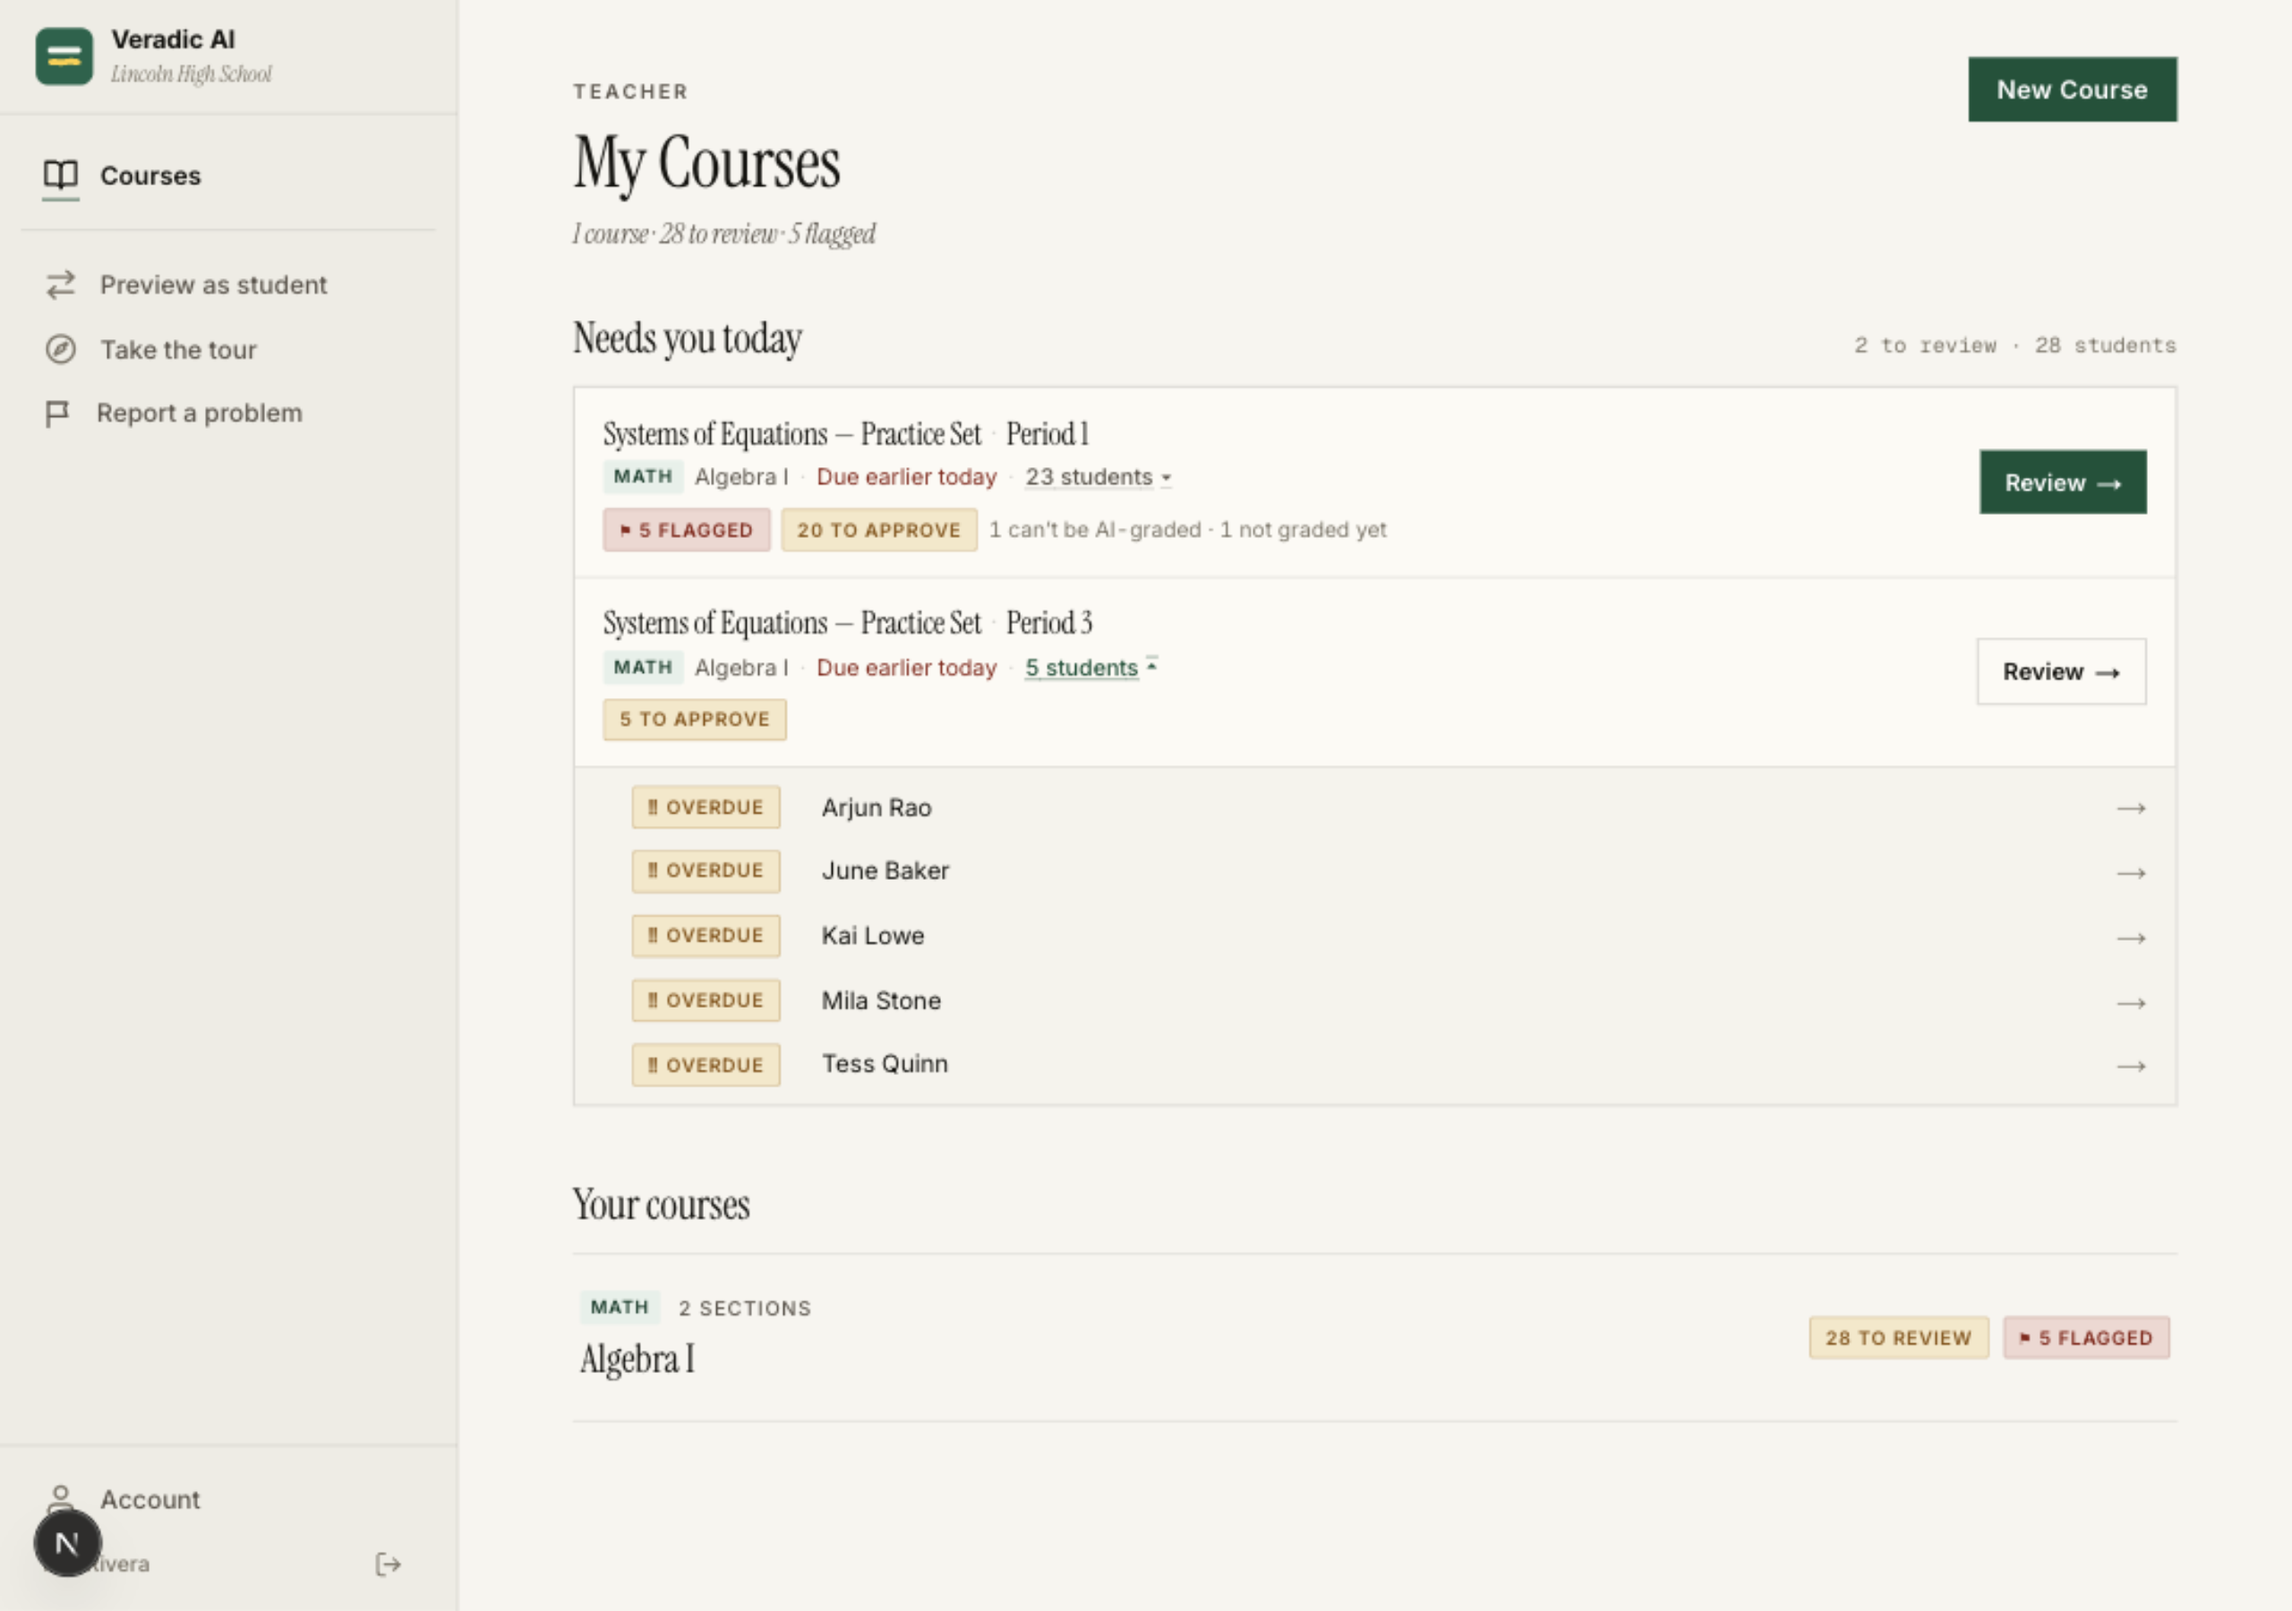
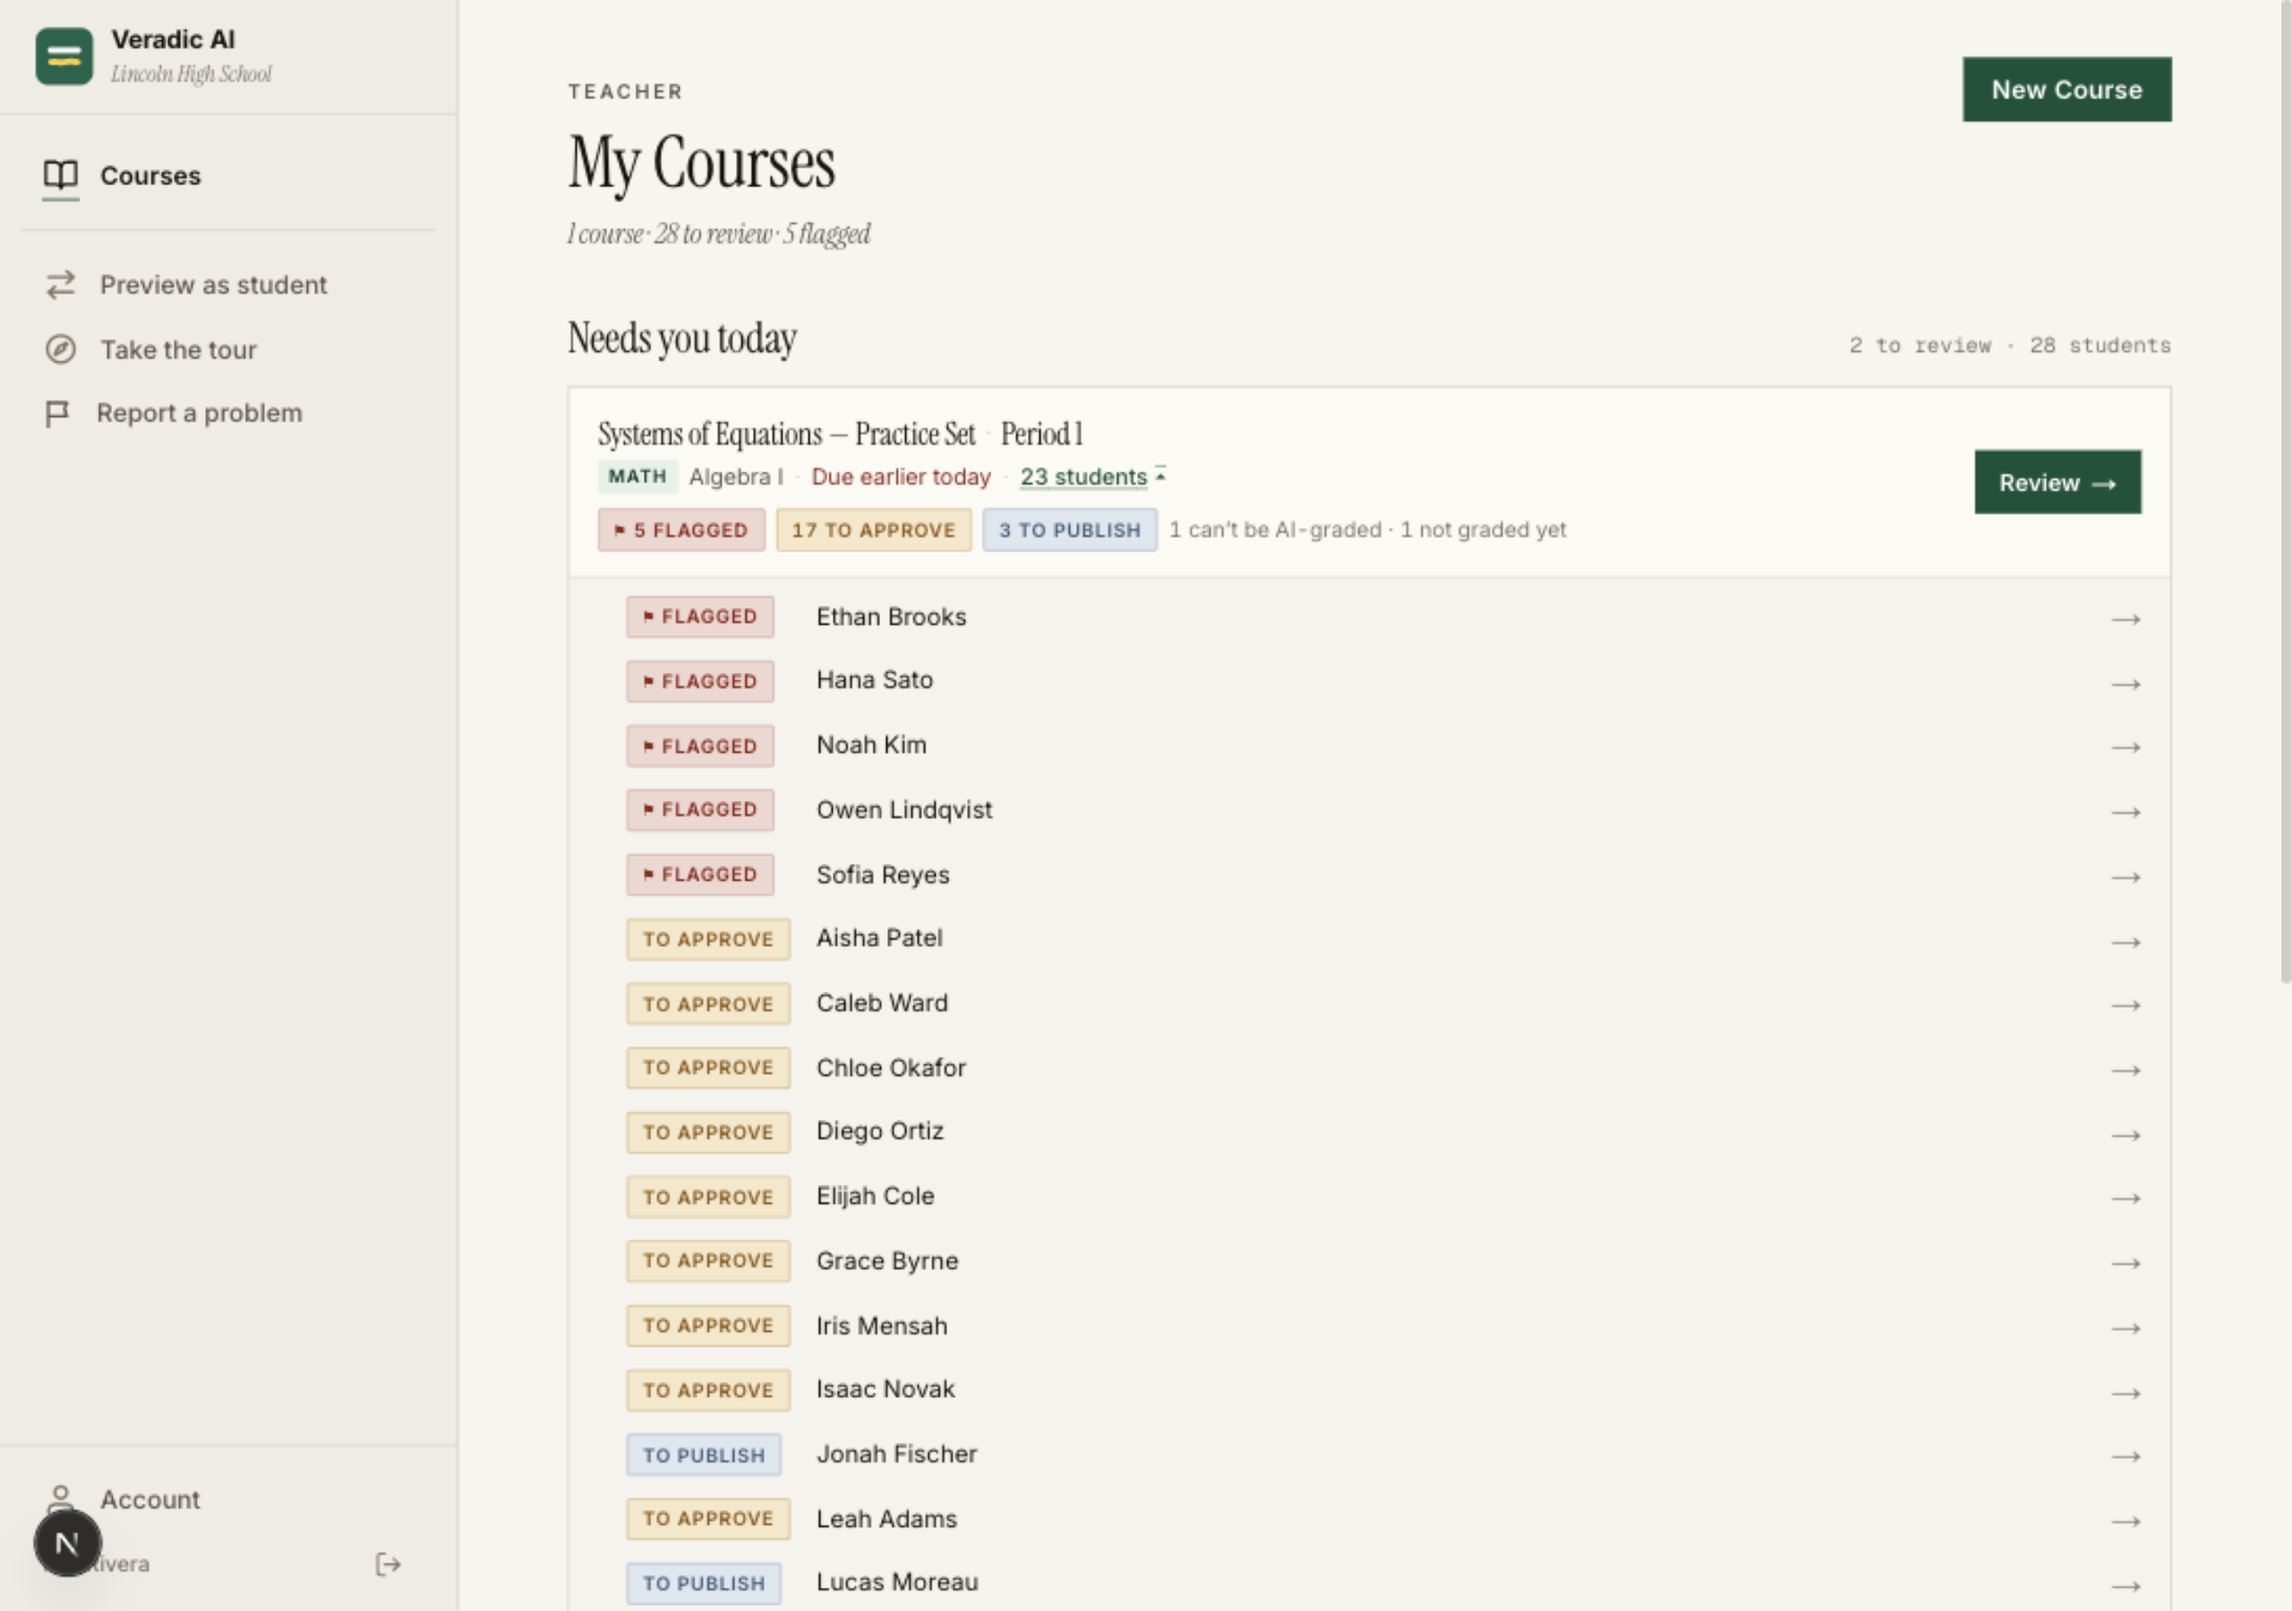
fix(home): student chips match the row's counts; load readings only for ungraded work
An expanded row listed a to-publish student as Ungraded (the server's
reason chip predates the to-approve/to-publish split); the chip now
reads the same flags the counts sum. The query no longer loads every
pending submission's full reading: any grade already answers 'can AI
grade?', so only never-graded rows go through ai_grade_block.

diff --git a/web/src/components/school/teacher/_pieces/needs-you-queue.tsx b/web/src/components/school/teacher/_pieces/needs-you-queue.tsx
@@ -3,16 +3,18 @@
 import { useCallback, useEffect, useId, useMemo, useRef, useState } from "react";
 import Link from "next/link";
 import { AnimatePresence, motion, useReducedMotion } from "framer-motion";
-import { teacher, type NeedsAttentionItem, type NeedsAttentionReason } from "@/lib/api";
+import { teacher, type NeedsAttentionItem } from "@/lib/api";
 import { Skeleton } from "@/components/ui";
 import { StatusPill } from "./status-pill";
 import { SubjectChip } from "./subject-chip";
 import {
   groupNeedsYou,
   groupReviewHref,
+  studentChip,
   studentCount,
   studentReviewHref,
   type NeedsYouGroup,
+  type StudentChip,
 } from "./needs-you-groups";
 
 // How many homework × section rows show before the "Show N more"
@@ -24,14 +26,17 @@ const INITIAL_VISIBLE = 5;
 // Reason → chip. Mirrors the dashboard's StatusPill vocabulary so the
 // queue reads the same as the per-course pills: red = integrity, amber
 // = grading work, info = a published grade the teacher edited since.
-const REASON_CHIP: Record<
-  NeedsAttentionReason,
-  { tone: "red" | "amber" | "info"; label: string; icon?: string }
+const CHIP: Record<
+  StudentChip,
+  { tone: "red" | "amber" | "info" | "muted"; label: string; icon?: string }
 > = {
   flagged: { tone: "red", label: "Flagged", icon: "⚑" },
+  to_approve: { tone: "amber", label: "To approve" },
+  to_publish: { tone: "info", label: "To publish" },
+  republish: { tone: "info", label: "Republish", icon: "↻" },
+  cant_ai_grade: { tone: "muted", label: "Can’t AI-grade" },
   overdue: { tone: "amber", label: "Overdue", icon: "‼" },
-  ungraded: { tone: "amber", label: "Ungraded" },
-  dirty: { tone: "info", label: "Republish", icon: "↻" },
+  ungraded: { tone: "muted", label: "Not graded" },
 };
 
 /** A due-date hint that's honest about overdue work. `formatDueRelative`
@@ -307,7 +312,7 @@ function GroupRow({ group, first }: { group: NeedsYouGroup; first: boolean }) {
 }
 
 function StudentRow({ item }: { item: NeedsAttentionItem }) {
-  const chip = REASON_CHIP[item.reason];
+  const chip = CHIP[studentChip(item)];
   return (
     <Link
       href={studentReviewHref(item)}

diff --git a/web/src/components/school/teacher/_pieces/needs-you-groups.test.ts b/web/src/components/school/teacher/_pieces/needs-you-groups.test.ts
@@ -4,7 +4,7 @@
 import assert from "node:assert/strict";
 import { test } from "node:test";
 import type { NeedsAttentionItem } from "@/lib/api";
-import { groupNeedsYou, groupReviewHref, studentCount } from "./needs-you-groups.ts";
+import { groupNeedsYou, groupReviewHref, studentChip, studentCount } from "./needs-you-groups.ts";
 
 function item(o: Partial<NeedsAttentionItem>): NeedsAttentionItem {
   return {
@@ -88,4 +88,16 @@ test("students are counted once across homeworks", () => {
     ]),
     2,
   );
+});
+
+test("a student's chip agrees with the row's counts", () => {
+  // The server's `reason` says "ungraded" for anything unreleased; the
+  // chip reads the same flags the counts do.
+  assert.equal(studentChip(item({ reason: "ungraded", to_publish: true })), "to_publish");
+  assert.equal(studentChip(item({ reason: "overdue", to_approve: true })), "to_approve");
+  assert.equal(studentChip(item({ reason: "flagged", flagged: true, to_approve: true })), "flagged");
+  assert.equal(studentChip(item({ reason: "dirty", to_publish: true })), "republish");
+  assert.equal(studentChip(item({ reason: "ungraded", cant_ai_grade: true })), "cant_ai_grade");
+  assert.equal(studentChip(item({ reason: "overdue" })), "overdue");
+  assert.equal(studentChip(item({})), "ungraded");
 });

diff --git a/web/src/components/school/teacher/_pieces/needs-you-groups.ts b/web/src/components/school/teacher/_pieces/needs-you-groups.ts
@@ -86,3 +86,17 @@ export function studentReviewHref(item: NeedsAttentionItem): string {
     `?student=${item.student_id}`
   );
 }
+
+export type StudentChip = "flagged" | "republish" | "to_approve" | "to_publish" | "cant_ai_grade" | "overdue" | "ungraded";
+
+/** The one chip a student gets in an expanded row, from the same facts
+ *  the row's counts are summed from — so a "1 to publish" row never
+ *  lists its student as "Ungraded". Flagged first, as on the server. */
+export function studentChip(item: NeedsAttentionItem): StudentChip {
+  if (item.flagged) return "flagged";
+  if (item.reason === "dirty") return "republish";
+  if (item.to_approve) return "to_approve";
+  if (item.to_publish) return "to_publish";
+  if (item.cant_ai_grade) return "cant_ai_grade";
+  return item.reason === "overdue" ? "overdue" : "ungraded";
+}

diff --git a/api/routes/teacher_courses.py b/api/routes/teacher_courses.py
@@ -22,6 +22,7 @@ from api.core.grading_queue import (
     BLOCK_NO_EXTRACTION,
     BLOCK_UNREADABLE,
     ai_grade_block,
+    has_any_grade_clause,
 )
 from api.core.integrity_pipeline import UNFINISHED_REASONS
 from api.core.subjects import VALID_SUBJECTS
@@ -483,28 +484,9 @@ async def needs_attention(
             SubmissionGrade.grade_published_at.label("grade_published_at"),
             overdue_case.label("is_overdue"),
             _to_review_case().label("to_review"),
-            # The ORM rows feed `ai_grade_block` — the review page's own
-            # rule for "can't be AI-graded" — so the two can't drift.
-            # Loaded with only the columns that rule reads (see options
-            # below), so the home page doesn't haul answer keys and
-            # rubric snapshots once per row.
-            Submission,
-            SubmissionGrade,
-            Assignment,
-        )
-        .options(
-            load_only(
-                Submission.id, Submission.extraction, Submission.extraction_flagged_at,
-                Submission.submitted_at, Submission.extraction_confirmed_at,
-            ),
-            load_only(
-                SubmissionGrade.id, SubmissionGrade.final_score, SubmissionGrade.ai_score,
-                SubmissionGrade.ai_breakdown, SubmissionGrade.teacher_score,
-                SubmissionGrade.breakdown, SubmissionGrade.graded_at,
-                SubmissionGrade.reviewed_at, SubmissionGrade.published_final_score,
-                SubmissionGrade.published_breakdown, SubmissionGrade.ai_grading_status,
-            ),
-            load_only(Assignment.id, Assignment.ai_grading_enabled),
+            SubmissionGrade.final_score.label("final_score"),
+            SubmissionGrade.reviewed_at.label("reviewed_at"),
+            has_any_grade_clause().label("has_grade"),
         )
         .select_from(Submission)
         .join(Assignment, Assignment.id == Submission.assignment_id)
@@ -532,6 +514,14 @@ async def needs_attention(
         )
     )).all()
 
+    # "Can't be AI-graded" is the review page's own rule, `ai_grade_block`,
+    # so the two can't drift. It needs the reading, which is heavy — but
+    # any grade at all already answers "no", so only never-graded rows
+    # load it, with just the columns the rule reads.
+    blocked = await _cant_ai_grade_ids(
+        db, [r.submission_id for r in rows if not r.has_grade],
+    )
+
     items: list[dict[str, Any]] = []
     for r in rows:
         # First matching bucket wins — flagged integrity always trumps
@@ -546,11 +536,7 @@ async def needs_attention(
             # Belt-and-suspenders: the WHERE clause already excludes
             # clean-published rows, but never emit one if it slips through.
             continue
-        unreleased = bool(
-            r.to_review
-            and r.SubmissionGrade is not None
-            and r.SubmissionGrade.final_score is not None,
-        )
+        unreleased = bool(r.to_review and r.final_score is not None)
         items.append({
             "submission_id": str(r.submission_id),
             "student_id": str(r.student_id),
@@ -578,11 +564,9 @@ async def needs_attention(
             #   cant_ai_grade — its "N can't be AI-graded" note
             #                   (`ai_grade_block` unreadable / no_extraction)
             "flagged": bool(r.flagged),
-            "to_approve": unreleased and r.SubmissionGrade.reviewed_at is None,
-            "to_publish": unreleased and r.SubmissionGrade.reviewed_at is not None,
-            "cant_ai_grade": ai_grade_block(
-                r.Submission, r.SubmissionGrade, r.Assignment,
-            ) in (BLOCK_UNREADABLE, BLOCK_NO_EXTRACTION),
+            "to_approve": unreleased and r.reviewed_at is None,
+            "to_publish": unreleased and r.reviewed_at is not None,
+            "cant_ai_grade": r.submission_id in blocked,
         })
 
     # Priority bucket, then most-overdue/soonest-due first (nulls last),
@@ -593,6 +577,39 @@ async def needs_attention(
         it["student_name"].lower(),
     ))
     return {"items": items, "total": len(items)}
+
+
+async def _cant_ai_grade_ids(
+    db: AsyncSession, submission_ids: list[uuid.UUID],
+) -> set[uuid.UUID]:
+    """Of these submissions, the ones `ai_grade_block` says can't be
+    AI-graded (unreadable, or no reading at all)."""
+    if not submission_ids:
+        return set()
+    rows = (await db.execute(
+        select(Submission, SubmissionGrade, Assignment)
+        .options(
+            load_only(
+                Submission.id, Submission.extraction, Submission.extraction_flagged_at,
+                Submission.submitted_at, Submission.extraction_confirmed_at,
+            ),
+            load_only(
+                SubmissionGrade.id, SubmissionGrade.final_score, SubmissionGrade.ai_score,
+                SubmissionGrade.ai_breakdown, SubmissionGrade.teacher_score,
+                SubmissionGrade.breakdown, SubmissionGrade.graded_at,
+                SubmissionGrade.reviewed_at, SubmissionGrade.published_final_score,
+                SubmissionGrade.published_breakdown, SubmissionGrade.ai_grading_status,
+            ),
+            load_only(Assignment.id, Assignment.ai_grading_enabled),
+        )
+        .join(Assignment, Assignment.id == Submission.assignment_id)
+        .outerjoin(SubmissionGrade, SubmissionGrade.submission_id == Submission.id)
+        .where(Submission.id.in_(submission_ids))
+    )).all()
+    return {
+        sub.id for sub, grade, assignment in rows
+        if ai_grade_block(sub, grade, assignment) in (BLOCK_UNREADABLE, BLOCK_NO_EXTRACTION)
+    }
 
 
 @router.get("/courses/{course_id}")
